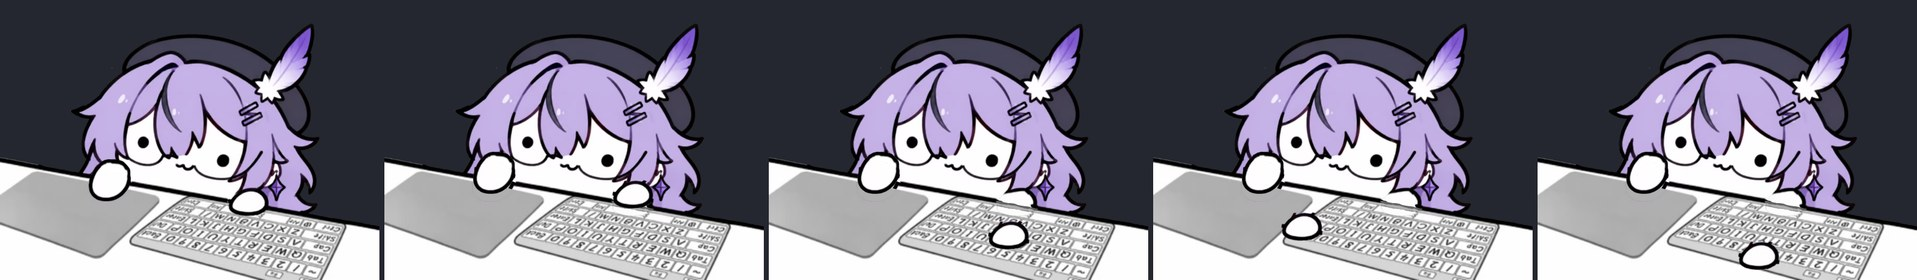
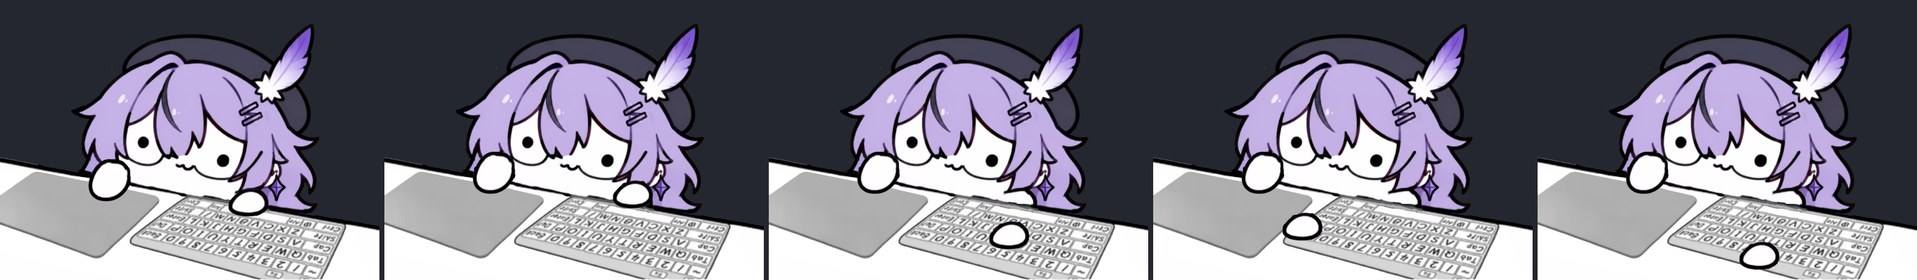
用PSD重置

diff --git a/pet/main.py b/pet/main.py
@@ -24,7 +24,7 @@ from PySide6.QtWidgets import (QApplication, QWidget, QMenu, QSystemTrayIcon,
                                QMessageBox)
 
 # ----------------------------------------------------------------------------- 常量
-VERSION = "2.0.0"                         # 发版时改这里(打包脚本会读它写进 exe 属性)
+VERSION = "2.0.1"                         # 发版时改这里(打包脚本会读它写进 exe 属性)
 if getattr(sys, "frozen", False):
     BASE_DIR = os.path.dirname(sys.executable)
     RES_DIR = getattr(sys, "_MEIPASS", BASE_DIR)
@@ -35,7 +35,7 @@ ASSETS = os.path.join(RES_DIR, "assets")
 CONFIG = os.path.join(BASE_DIR, "config.json")
 
 SPRITE_W, SPRITE_H = 1459, 1078
-PAW_BOX = {"l": (326, 596, 518, 792), "r": (864, 708, 1048, 856)}
+PAW_BOX = {"l": (322, 594, 522, 794), "r": (860, 704, 1052, 862)}
 PAW_W, PAW_H = PAW_BOX["r"][2] - PAW_BOX["r"][0], PAW_BOX["r"][3] - PAW_BOX["r"][1]   # 含余量, 供下砸/压扁用
 EYE_BOX = (494, 490, 920, 680)
 

diff --git a/README.md b/README.md
@@ -1,6 +1,6 @@
 # Moon 桌宠（Bongo Cat 式打字反馈）
 
-**当前版本 v2.0.0**（Bongo Cat 版） · [更新日志](CHANGELOG.md) · [下载](https://github.com/shamate-tv/desk_pet_for_Moon_/releases)（取 Releases 里的 `MoonPet-v2.0.0.exe`）
+**当前版本 v2.0.1**（Bongo Cat 版） · [更新日志](CHANGELOG.md) · [下载](https://github.com/shamate-tv/desk_pet_for_Moon_/releases)（取 Releases 里的 `MoonPet-v2.0.1.exe`）
 
 一张 OC 插画 → Bongo Cat 式桌宠：**你敲键盘，她就躲在桌子后面左右爪交替拍桌子**，
 整个人跟着往下一沉；空闲时随机眨眼，鼠标点击双爪同砸，鼠标穿透/拖动/托盘菜单齐全。
@@ -95,7 +95,7 @@ build/                    中间产物 + 全部调试图(.gitignore 忽略)
 ## 素材流水线
 
 ```bat
-python toolsongo_bg.py       :: 画师分好的图层 -> assets/bg.png(场景板) + assets/paw_l.png
+python toolsongo_bg.py       :: art/ 六图层 -> assets/bg.png(场景板) + paw_l/paw_r.png
 python toolsongo_keys.py     :: 键帽检测 + 单应拟合 -> assets/keys.json(50 个键位)
 python toolsongo_cut.py      :: (备用)从整图自动切图层
 python tools\preview_bongo.py  :: -> build/preview_bongo.gif + 分帧图
@@ -150,7 +150,7 @@ release\MoonPet-v2.0.0.exe --keydebug
 双击即用；首次启动要解包到临时目录，约 3~6 秒才出现。
 
 **版本号只有一个来源**：`pet/main.py` 顶部的 `VERSION`。打包脚本会读它，自动写进
-exe 的 Windows 属性（右键→属性→详细信息能看到版本号）、并命名成 `MoonPet-v2.0.0.exe`。
+exe 的 Windows 属性（右键→属性→详细信息能看到版本号）、并命名成 `MoonPet-v2.0.1.exe`。
 发新版时改那一行 + 在 `CHANGELOG.md` 加一段即可。
 
 重新打包：

diff --git a/CHANGELOG.md b/CHANGELOG.md
@@ -11,6 +11,27 @@
 
 ---
 
+## v2.0.1
+
+**素材换成画师手工分层的完整六图层（修掉"爪子让开后露馅"）**
+
+v2.0.0 的爪子让开时，露出来的是程序自动补的（右爪那块尤其是有白色扇形条纹）。
+画师这次把图层分全了，背景板改成**纯手工拼接**，自动补洞整段删掉：
+
+`art/` 里的六张全画布图层（母版 `art/OC.psd`，同名的 6 个图层）：
+
+| 图层 | 用途 |
+|---|---|
+| `桌子` `键盘` `鼠标垫` `人物` | 从下往上叠成 `assets/bg.png`（**无手场景板**） |
+| `左手` `右手` | 直接作为两只可动层 `assets/paw_l.png` / `paw_r.png` |
+
+- 六层叠加与 `art/BongoCatOC抠图.png` 在"两者都实心"的像素上**平均差 2.39**，
+  差异>30 的仅 1.8%（都在边缘抗锯齿处）——可视为完美还原
+- `tools/bongo_bg.py` 重写成"只做叠加"，不再有任何 inpaint / 最近邻填充
+- 效果：爪子抬起、左手滑鼠标垫、右手去按键时，底下露出的全是画师画的真实内容
+
+用法与接口不变，素材来源换新，按语义化版本走 patch。
+
 ## v2.0.0
 
 **大换血：换成真正的 Bongo Cat（新素材 + 新动画 + 真键位表）**
